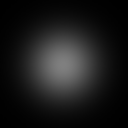
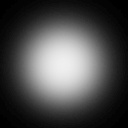
优化火球特效

diff --git a/Content/Projectiles/FireGrimoire/FireBall.cs b/Content/Projectiles/FireGrimoire/FireBall.cs
@@ -23,8 +23,8 @@ namespace CNC.Content.Projectiles.FireGrimoire
         public override void ResetDefaults()
         {
             data["level"] = 0;
-            projectile.width = 10;
-            projectile.height = 10;
+            projectile.width = 14;
+            projectile.height = 14;
             projectile.timeLeft = 600;
             projectile.knockBack = 2f;
             projectile.alpha = 0;
@@ -58,9 +58,26 @@ namespace CNC.Content.Projectiles.FireGrimoire
             {
                 Color color = new Color(242, 92, 34);// * projectile.scale;
                 CNCUtils.AddLight(projectile.position, color, .8f);
+                /*
                 Dust dust = Dust.NewDustDirect(projectile.position, (int)(projectile.width * projectile.scale), (int)(projectile.height * projectile.scale), DustId.Fire, 0f, 0f, 100, Color.Red, 2f);
                 dust.noGravity = true;
                 dust.velocity *= 2;
+                */
+                for (int i = 0; i < 2; i++)
+                {
+                    int idx = Particle.NewParticle(
+                        ModContent.Request<Texture2D>("CNC/Assets/Effects/Light").Value,
+                        projectile.Center + new Vector2(Main.rand.NextFloat(-1f, 1f) * Main.rand.NextFloat(-1f, 1f)) * projectile.Size * projectile.scale / 2f,
+                        -new Vector2(projectile.velocity.X, 6f) * Main.rand.NextFloat(.05f, .1f),
+                        0f,
+                        100,
+                        new Vector2(Main.rand.NextFloat(.03f, .09f)),
+                        new Color(242, 92, 34, 0),
+                        new Color(242, 92, 34, 25)
+                        );
+                    ParticleRenderer.particle[idx].scaleAdd = -new Vector2(Main.rand.NextFloat(.0003f, .0010f));
+                    ParticleRenderer.particle[idx].alphaAdd = (Main.rand.Next(5) + 1) * -.01f;
+                }
             }
         }
 
@@ -72,11 +89,25 @@ namespace CNC.Content.Projectiles.FireGrimoire
 
         public override void Kill(int timeLeft)
         {
-            for(int i = 0; i < len; i++)
+            for (int i = 0; i < len; i++)
             {
+                /*
                 Dust dust = Dust.NewDustDirect(projectile.oldPos[i], (int)(projectile.width * projectile.scale), (int)(projectile.height * projectile.scale), DustId.Fire, 0f, 0f, 100, Color.Red, 2f - i / len);
                 dust.noGravity = true;
                 dust.velocity = projectile.velocity / 8f;
+                */
+                int idx = Particle.NewParticle(
+                    ModContent.Request<Texture2D>("CNC/Assets/Effects/Light").Value,
+                    projectile.oldPos[i] + projectile.Size / 2f + new Vector2(Main.rand.NextFloat(-1f, 1f), Main.rand.NextFloat(-1f, 1f)) * projectile.Size * projectile.scale / 2f,
+                    -new Vector2(projectile.velocity.X, 6f) * Main.rand.NextFloat(.05f, .1f),
+                    0f,
+                    100,
+                    new Vector2(Main.rand.NextFloat(.06f, .12f)) * ((len - i) / (len + 1f) * .5f + .5f),
+                    new Color(242, 92, 34, 0),
+                    new Color(242, 92, 34, 25)
+                    );
+                ParticleRenderer.particle[idx].scaleAdd = -new Vector2(Main.rand.NextFloat(.0005f, .0012f));
+                ParticleRenderer.particle[idx].alphaAdd = (Main.rand.Next(5) + 1) * -.01f;
             }
             Projectile proj = this.NewProjectile(0f, 0f, CNCID.Projectile.LegacyObject[CNCID.Projectile.FireBallExplosion], Inscription.JustGetDamage(projectile.damage, (string)CNCID.Inscription.S_Incinerating.Data[0]), projectile.knockBack, MyMath.deg01 * Main.rand.Next(0, 359));
             proj.GetGlobalProjectile<AllProjectile>().data["level"] = level;
@@ -89,9 +120,16 @@ namespace CNC.Content.Projectiles.FireGrimoire
             Texture2D glowTrail = ModContent.Request<Texture2D>("CNC/Assets/Effects/GlowTrail1").Value;
             Texture2D trail = ModContent.Request<Texture2D>("CNC/Assets/Effects/Trail3").Value;
             Color color = new Color(242, 92, 34, 0);
+            //Main.spriteBatch.Draw(light, projectile.Center - light.Size() / 2f * .5f - Main.screenPosition, null, color, 0, default, .5f, 0, 0f);
             Drawing.DrawTrailDirect(Main.spriteBatch, glowTrail, len, projectile.oldPos, projectile.oldRot, projectile.Size / 2, MyMath.deg90, color, pointX, glowTrail.Height / 2, new Vector2(1, .05f), new Vector2(1, .05f), true, 16, 1);
             Drawing.DrawTrailDirect(Main.spriteBatch, trail, Math.Max(0, len - 2), projectile.oldPos, projectile.oldRot, projectile.Size / 2, MyMath.deg90, color, pointX, trail.Height / 2, new Vector2(1, .19f), new Vector2(1, .05f), true, 16, 2);
             pointX = (pointX - 15 + trail.Width) % trail.Width;
+            return true;
+        }
+
+        public override bool PreDraw(ref Color lightColor)
+        {
+            lightColor = Color.White;
             return true;
         }
     }

diff --git a/Content/Projectiles/FireGrimoire/FireBallExplosion.cs b/Content/Projectiles/FireGrimoire/FireBallExplosion.cs
@@ -1,7 +1,6 @@
 using Microsoft.Xna.Framework;
+using Microsoft.Xna.Framework.Graphics;
 using Terraria;
-using Terraria.ID;
-using Terraria.Audio;
 using Terraria.ModLoader;
 using CNC.Common.Utils;
 using CNC.Common.Global.Projectiles;
@@ -22,7 +21,6 @@ namespace CNC.Content.Projectiles.FireGrimoire
             projectile.timeLeft = 23;
             projectile.knockBack = 2f;
             projectile.alpha = 32;
-            projectile.scale = 1f;
             projectile.penetrate = -1;
             projectile.friendly = true;
             projectile.ignoreWater = true;
@@ -38,9 +36,26 @@ namespace CNC.Content.Projectiles.FireGrimoire
             if (frame > 0) projectile.friendly = false; 
             if (frame < 3)
             {
+                /*
                 Dust dust = Dust.NewDustDirect(projectile.position + projectile.velocity, projectile.width, projectile.height, DustId.Fire, 0f, 0f, 100, Color.Red, 3f);
                 dust.noGravity = true;
                 dust.scale -= .05f;
+                */
+                for (int i = 0; i < 3; i++)
+                {
+                    int idx = Particle.NewParticle(
+                        ModContent.Request<Texture2D>("CNC/Assets/Effects/Light").Value,
+                        projectile.Center + new Vector2(Main.rand.NextFloat(-1f, 1f), Main.rand.NextFloat(-1f, 1f)) * projectile.Size * projectile.scale / 2f,
+                        new Vector2(Main.rand.NextFloat(-6f, 6f), -6f) * Main.rand.NextFloat(.05f, .1f),
+                        0f,
+                        100,
+                        new Vector2(Main.rand.NextFloat(.06f, .12f)),
+                        new Color(242, 92, 34, 0),
+                        new Color(242, 92, 34, 25)
+                        );
+                    ParticleRenderer.particle[idx].scaleAdd = -new Vector2(Main.rand.NextFloat(.0005f, .0012f));
+                    ParticleRenderer.particle[idx].alphaAdd = (Main.rand.Next(5) + 1) * -.01f;
+                }
             }
             Color color = new Color(242, 92, 34); //projectile.scale;
             CNCUtils.AddLight(projectile.position, color, 0.8f);
@@ -50,6 +65,12 @@ namespace CNC.Content.Projectiles.FireGrimoire
         {
             target.AddBuff(24, 300);
             if (this.level > 0) target.AddBuff(CNCID.Buff.LegacyObject[CNCID.Buff.Scorched], 300);
+        }
+
+        public override bool PreDraw(ref Color lightColor)
+        {
+            lightColor = Color.White;
+            return true;
         }
     }
 }

diff --git a/Content/Particle.cs b/Content/Particle.cs
@@ -2,6 +2,7 @@ using Terraria;
 using Terraria.ModLoader;
 using Microsoft.Xna.Framework;
 using Microsoft.Xna.Framework.Graphics;
+using CNC.Common.Utils;
 
 namespace CNC.Content
 {
@@ -68,6 +69,7 @@ namespace CNC.Content
         public void Draw(SpriteBatch spriteBatch, Vector2 offset = default)
         {
             if (!this.active) return;
+            float alpha = MyMath.Clamp(this.alpha, 0, 1);
             if (PreDraw(spriteBatch, offset))
             {
                 if (this.textureGlow != null)
@@ -75,7 +77,7 @@ namespace CNC.Content
                         this.textureGlow,
                         this.position + offset - Main.screenPosition,
                         null,
-                        this.color * this.alpha,
+                        this.color * alpha,
                         this.rotation,
                         this.textureGlow.Size() / 2,
                         this.scale * this.scaleGlow,
@@ -86,7 +88,7 @@ namespace CNC.Content
                         this.texture,
                         this.position + offset - Main.screenPosition,
                         null,
-                        this.color * this.alpha,
+                        this.color * alpha,
                         this.rotation,
                         this.texture.Size() / 2,
                         this.scale,
@@ -157,10 +159,11 @@ namespace CNC.Content
                             particle[i].rotation += particle[i].rotationAdd;
                             particle[i].scale += particle[i].scaleAdd;
                             particle[i].scale *= particle[i].scaleMul;
+                            particle[i].alpha += particle[i].alphaAdd;
                             particle[i].velocity = (particle[i].velocity + particle[i].velocityAdd) * particle[i].velocityMul;
                             if (particle[i].scale.X < 0) particle[i].scale.X = 0;
                             if (particle[i].scale.Y < 0) particle[i].scale.Y = 0;
-                            if (!particle[i].noGravity) particle[i].velocity.Y += Common.Utils.MyMath.g * .01f;
+                            if (!particle[i].noGravity) particle[i].velocity.Y += MyMath.g * .01f;
                             if (particle[i].light != Color.Transparent)
                             {
                                 Point pos = (particle[i].position / 16f).ToPoint();

diff --git a/Common/Global/Projectiles/CNCProjectile.cs b/Common/Global/Projectiles/CNCProjectile.cs
@@ -33,6 +33,7 @@ namespace CNC.Common.Global.Projectiles
         public float velY { get => projectile.velocity.Y; set => projectile.velocity.Y = value; }
         public int frame { get => projectile.frame; set => projectile.frame = value; }
         public int frameTick { get => projectile.frameCounter; set => projectile.frameCounter = value; }
+        public Rectangle? hitBox = null;
 
 
         public NPC NewNPC(short CNCtype, int start = 0)
@@ -106,6 +107,7 @@ namespace CNC.Common.Global.Projectiles
 
         public sealed override void SetDefaults()
         {
+            hitBox = null;
             ResetDefaults();
         }
 
@@ -228,6 +230,12 @@ namespace CNC.Common.Global.Projectiles
             float knockback = 0f;
             HitPlayer(target, ref damage, ref crit);
             ModifyHit(target, ref damage, ref knockback, ref crit);
+        }
+
+        public override void ModifyDamageHitbox(ref Rectangle hitbox)
+        {
+            if (this.hitBox == null) base.ModifyDamageHitbox(ref hitbox);
+            else hitbox = (Rectangle)this.hitBox;
         }
 
         public virtual void ResetDefaults() { }

diff --git a/Config.cs b/Config.cs
@@ -262,10 +262,10 @@ namespace CNC
                     base.OnBind();
                     valueStrings = new string[]
                     {
-                CNCLocalization.GetText("Config.BottomEdge"),
-                CNCLocalization.GetText("Config.LeftEdge"),
-                CNCLocalization.GetText("Config.TopEdge"),
-                CNCLocalization.GetText("Config.RightEdge"),
+                        CNCLocalization.GetText("Config.BottomEdge"),
+                        CNCLocalization.GetText("Config.LeftEdge"),
+                        CNCLocalization.GetText("Config.TopEdge"),
+                        CNCLocalization.GetText("Config.RightEdge"),
                     };
                     TextDisplayFunction = () => memberInfo.Name + GetStringValue();
                     if (labelAttribute != null) TextDisplayFunction = () => labelAttribute.Label + GetStringValue();
